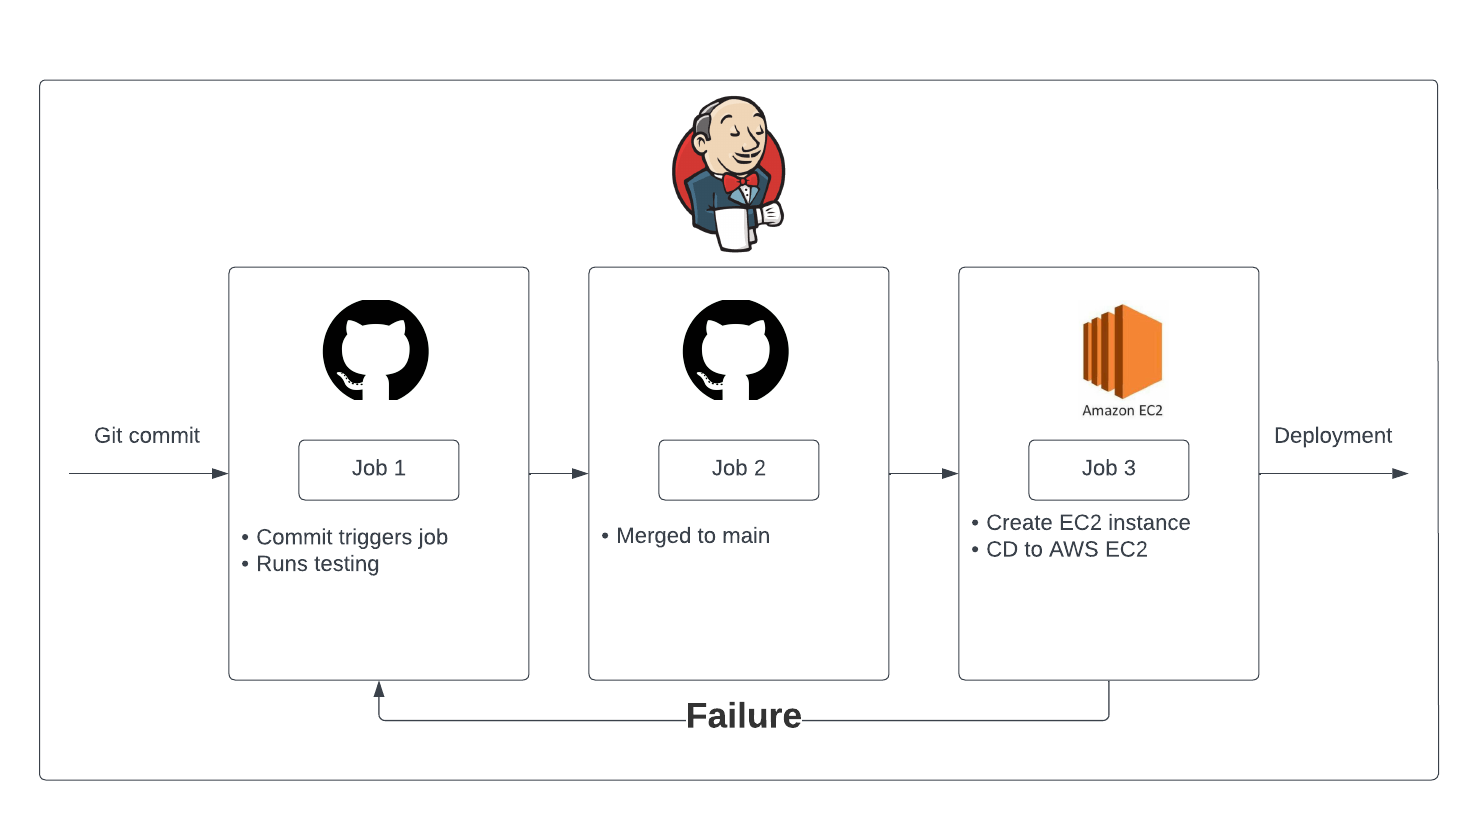
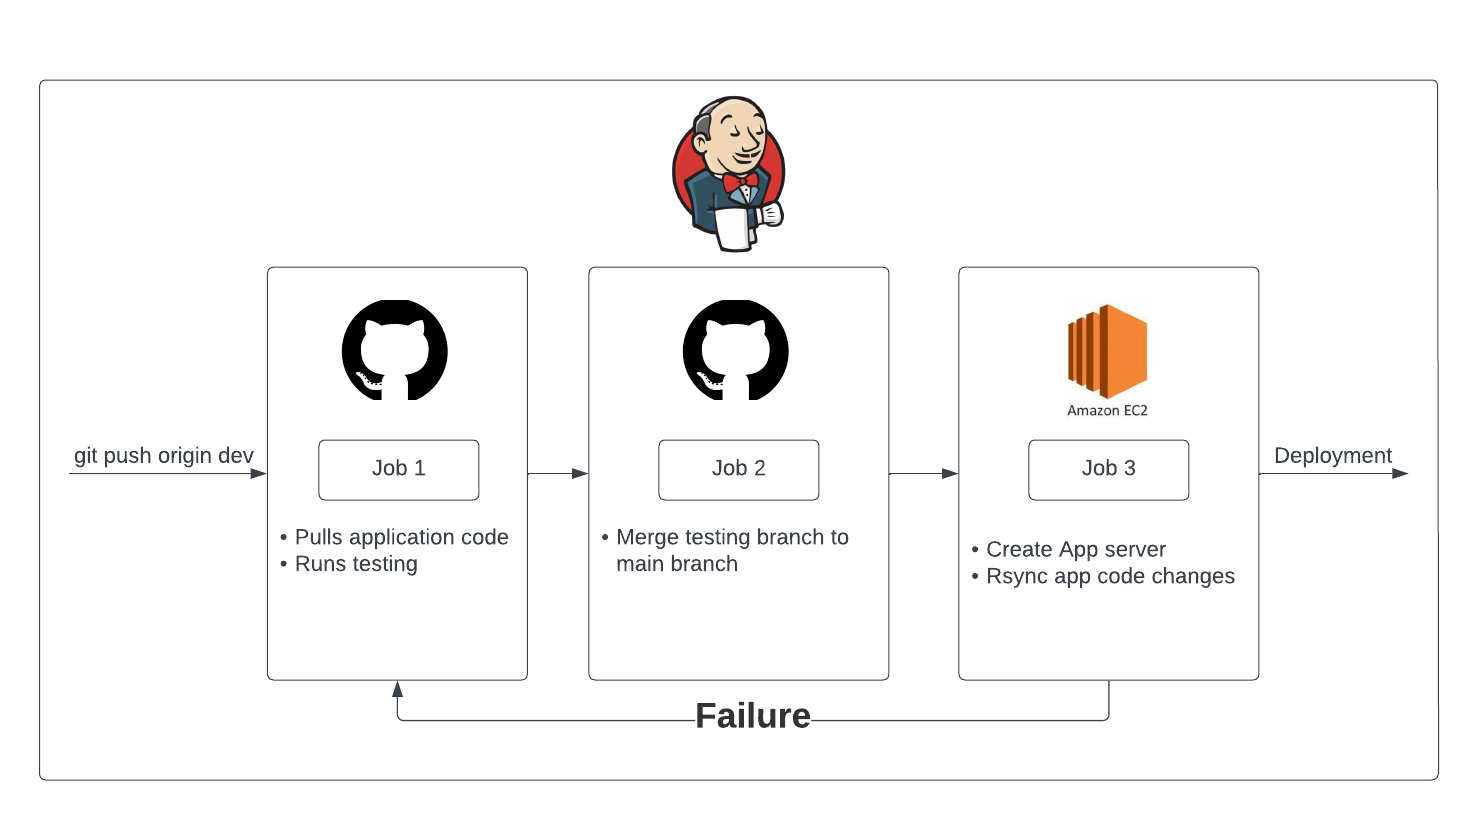
Update docs

diff --git a/cicd/pipeline.md b/cicd/pipeline.md
@@ -1,0 +1,190 @@
+# Automating Application Deployment on AWS with Jenkins CI/CD
+
+Prerequisities:
+1. AWS account + .pem file
+2. Git Hub repo with app code (containing app folder in the main dir)
+3. Set up SSH with localhost and github repo
+4. Set up SSH between Github and Jenkins
+   <!-- Generate key from local host
+   - From Github you need to put pub key into github folder and provide the private key to Jenkins.
+   - Jenkins now has the correct access to clone the code. -->
+5. Testing branch called `dev`
+
+## Architectural Design
+
+<img src="../assets/jenkins.png">
+
+## Jenkins Server 
+
+### Create an Amazon EC2 Instance for Jenkins
+Set up Jenkins on an EC2 instance in AWS, in the `Ireland` region, using a t2.micro instance type.
+
+- AWS Management Console > EC2 > Launch instance > Name e.g. `my-tech257-jenkins`.
+- Choose the Ubuntu Server 18.04 LTS.
+- Instance type: t2.micro > choose an existing Key pair.
+- Configure security groups to allow inbound traffic on ports 22 (SSH) and 8080 (Jenkins).
+     <br><img src="../assets/image-37.png" width=550> 
+- `Launch instance`.
+  <br><img src="../assets/image-43.png" width=650>
+
+### SSH into Jenkins Server
+
+- Navigate into ssh folder in local machine.
+- Connect to the instance using its Public DNS.
+- Update the system:
+  ```
+  sudo apt update
+  sudo apt upgrade -y
+  ```
+- Install Java: `sudo apt install openjdk-17-jre-headless`
+
+  >Note: Jenkins requires Java to run.
+
+- Add the Jenkins repository, import the GPG key and update again:
+    ```bash
+    sudo wget -O /usr/share/keyrings/jenkins-keyring.asc https://pkg.jenkins.io/debian-stable/jenkins.io-2023.key
+    echo deb [signed-by=/usr/share/keyrings/jenkins-keyring.asc] https://pkg.jenkins.io/debian-stable binary/ | sudo tee /etc/apt/sources.list.d/jenkins.list > /dev/null
+    sudo apt update
+    ```
+- Install Jenkins: `sudo apt install jenkins`
+
+- Start the Jenkins service:
+bash: `sudo systemctl start jenkins`
+- Enable Jenkins to start automatically on system boot: `sudo systemctl enable jenkins`
+
+### Access Jenkins
+- Open your web browser and navigate to `http://<your_instance_public_IP>:8080` to access Jenkins.
+- Follow the post-installation setup to unlock Jenkins:
+  - You'll be prompted to enter the initial admin password. You can retrieve this by running the following in the Jenkins instance you SSH'd in to: `sudo cat /var/lib/jenkins/secrets/initialAdminPassword`
+    <br><img src="../assets/image-44.png" width=650>
+
+- Click `Continue` and then `Install suggested plugins`.
+  - If it doesn't work, run the following in the Jenkins instance: `sudo systemctl restart jenkins`. <!-- OR `sudo systemctl status jenkins` and then `sudo systemctl start jenkins`. -->
+  <br><img src="../assets/image-36.png" width=550>
+
+- Create the admin user and provide a Jenkins URL.
+  <br><img src="../assets/image-49.png" width=650>
+- `Save and Finish`.
+- `Start using Jenkins`.
+
+## Jobs on Jenkins Server
+
+- Dashboard > User > New Item > Enter an item name > Freestyle project > OK.
+
+### Continuous Integration (CI)
+
+#### Create Job 1
+
+- Create a new Job called `My-CI`, for example.
+- For `General`, give Description: e.g. _Building CI_ > tick `Discard old builds` > Max # of builds to keep: `3` > tick `GitHub project` > provide **Project url** (HTTPS one).
+- For `Source Code Managment`, select `Git` > provide **Repository URL** (SSH one) > `+Add` Credentials:
+    >  - Kind: `SSH Username with private key`
+    >  - Username: [your-key-name]
+    >  - On local machine, cat the value of private key for the SSH key connected to this repo.
+    >   - Add private key.
+  - Note: Get Git plugin to verify the key by going to `Manage Jenkins` > `Security` > `Git Host Key Verifiation Configuration` > select `Accept first connection` > `Save`.
+  - Branch Specifier: `*/dev`.
+- For `Build Steps` choose `Execute shell`, then enter:
+  ```bash
+  cp app
+  npm install
+  npm test
+  ```
+- Click `Save`.
+- Click `Build Now`.
+
+#### Troubleshooting
+<img src="../assets/image-45.png" width=650>
+
+- To fix the error, manually install Node.js that is compatible with Ubuntu 18.04.
+- . In the Jenkins instance terminal, run the following:
+    ```bash
+    curl -fsSL https://deb.nodesource.com/setup_17.x | sudo -E bash - && sudo apt-get install -y nodejs
+    ```
+
+- On Jenkins server, click `Build now` for Job 1 again.
+- Test the CI setup by making a change to the repository, committing, and pushing it to GitHub.
+
+<img src="../assets/image-46.png" width=650>
+
+### Continuous Integration with Merge (CI-Merge)
+
+#### Create webhook on GitHub
+
+- Payload URL: [your-payload-url]
+- Content type: choose `application/json`
+- Click `Add webhook`.
+
+<img src="../assets/image-38.png" width=550>
+
+#### Create Job 2
+
+- Create a new Job called `My-CI-Merge`, for example.
+- For `General`, give Description: e.g. _merge from dev to main after successful tests_ > tick `Discard old builds` > Max # of builds to keep: `3` > tick `GitHub project` > provide **Project url** (HTTPS one).
+- For `Source Code Managment`, select `Git` > provide **Repository URL** (SSH one) > Branch Specifier: `*/main`.
+- For `Build Triggers`, tick `Build after other projects are built` and provide the Projects to watch e.g. `My-CI`.
+- For `Post-build Actions` choose `Git Publisher`, then the following:
+  <br><img src="../assets/image-22.png" width=500>
+- Click `Save`.
+- Click `Build Now`.
+
+<br><img src="../assets/image-47.png" width=650>
+
+### Continuous Delivery (CD)
+
+#### Manage Jenkins
+
+- Add SSH Agent Plugin on Jenkins server:
+    - Jenkins Dashboard > `Manage Jenkins` > `Plugins` > click `SSH Agent` > click `Install`.
+
+- Add AWS Private Key on Jenkins server:
+    - Jenkins Dashboard > `Manage Jenkins` > `Credentials` > click `(global)` under Domain > `Add Credentials`.
+    - Kind: SSH Username with private key
+    - Username: [your-aws-key-name]
+    - Paste private key
+    - Click `Create`.
+     <br><img src="../assets/image-39.png" width=500>
+
+#### Create Application Server
+
+- Image: Ubuntu version 18.04
+- Instance type: t2 micro
+- Inbound rules for security group: ports 22 (SSH) and 80 (HTTP).
+
+<img src="../assets/image-42.png" width=700>
+
+<img src="../assets/image-32.png" width=400>
+
+#### Create Job 3
+
+- Create a new Job called `My-CD`, for example.
+- For `General`, give Description: e.g. _merge CD with AWS_ > tick `Discard old builds` > Max # of builds to keep: `3` > tick `GitHub project` > provide **Project url** (HTTPS one).
+- For `Source Code Managment`, select `Git` > provide **Repository URL** (SSH one) > Branch Specifier: `*/main`.
+- For `Build Triggers`, tick `Build after other projects are built` and provide the Projects to watch e.g. `My-CI-Merge`.
+- For `Build Environment` tick `SSH agent` and choose AWS private key.
+  <br><img src="../assets/image-48.png" width=350>
+- For `Build Steps` choose `Execute shell`, then enter:
+  ```bash
+  # Replace with new app folder
+  rsync -avz -e "ssh -o StrictHostKeyChecking=no" app ubuntu@[PublicIP-App]:/home/ubuntu/
+
+  # SSH into the VM and execute commands
+  ssh -o "StrictHostKeyChecking=no" ubuntu@[PublicIP-App] <<EOF
+      cd ~/app
+      sudo pkill -f node
+      npm install
+      nohup node app.js > /dev/null 2>&1 &
+  EOF
+  ```
+- Click `Save`.
+- Click `Build Now`.
+
+### Test Pipeline
+
+Click `Build Now` from Job 1.
+
+<img src="../assets/image-40.png" width=500>
+
+### Verify deployment on AWS
+<img src="../assets/image-41.png" width=500>
+

diff --git a/cicd/cicdjenkins.md b/cicd/cicdjenkins.md
@@ -11,7 +11,7 @@
 - Copy the output of the public key, then deploy the key to your desired GitHub repository (not entire Github Account).
   > Note: Make sure to `Allow write access`
 
-### Setup Jenkins
+### Create a Jenkins Job
 <!-- - Install Jenkins on your server. You can download it from the official website and follow installation instructions. -->
    - Access Jenkins through your browser by navigating to `http://<Jenkins-Server-IP>:8080/`. <!--http://35.176.97.54:8080/ -->
 
@@ -103,7 +103,7 @@ Create a webhook on GitHub, set up continuous integration using Jenkins, and ens
 ### Create a new Jenkins job for merge from dev to main branch
 
 - Jenkins dashboard > "New Item" e.g. `My-CI-Merge` > Freestyle project > OK.
-- For `General`, give Description: e.g. _merge from dev to main after successful tests_ > tick `Discard old builds` > Max #: of builds to keep: `3` > tick `GitHub project` > provide **Project url** (HTTPS one).
+- For `General`, give Description: e.g. _merge from dev to main after successful tests_ > tick `Discard old builds` > Max # of builds to keep: `3` > tick `GitHub project` > provide **Project url** (HTTPS one).
 - For `Office 365 Connector`, tick `Restrict where this project can be run` and provide the Label expression (agent node).
 - For `Source Code Managment`, select `Git` > provide **Repository URL** (SSH one) > Branch specifier: `*/main`.
 - For `Build Triggers`, tick `Build after other projects are built` and provide the Projects to watch e.g. `My-CI`.
@@ -141,13 +141,12 @@ Create a webhook on GitHub, set up continuous integration using Jenkins, and ens
 ### Create new job on Jenkins
 
 - Create a new Job called `My-CD`, for example.
-- For `General`, give Description: e.g. _merge CD with AWS_ > tick `Discard old builds` > Max #: of builds to keep: `3` > tick `GitHub project` > provide **Project url** (HTTPS one).
+- For `General`, give Description: e.g. _merge CD with AWS_ > tick `Discard old builds` > Max # of builds to keep: `3` > tick `GitHub project` > provide **Project url** (HTTPS one).
 - For `Source Code Managment`, select `Git` > provide **Repository URL** (SSH one) > Branch specifier: `*/main`.
 - For `Build Triggers`, tick `Build after other projects are built` and provide the Projects to watch e.g. `My-CD-Merge`.
-- For `Build Environment` tick `Provide Node & npm bin/ folder to PATH` and `SSH agent`
+- For `Build Environment` tick `Provide Node & npm bin/ folder to PATH` and `SSH agent`.
   - In the SSH agent add credentials > Kind: SSH Username with private key > Username: pemkey > Add private key (this is the value of the AWS **.pem** file) > Add.
 - For `Build` choose `Execute shell`, then enter:
-  ```bash
   ```bash
   ssh -o "StrictHostKeyChecking=no" ubuntu@3.250.0.106 <<EOF
       sudo apt update -y
@@ -235,7 +234,7 @@ You want to be able to access the application on its port number.
   - Push changes to remote main branch: `git push origin main`
 -->
 
-## Deploy Application Changes on AWS
+## Deployment of Changes to the Application
 
 ### Architecture Diagram
 <img src="../assets/jenkins.png" width=500>
@@ -249,13 +248,13 @@ On AWS, every time you stop and start an instance the Public IP address changes.
 
 ### Update Jenkins job
 
-- Update the Jenkins CD job:
+- Update the Jenkins Job 3 (for CD):
   ```bash
   # Replace with new app folder
-  rsync -avz -e "ssh -o StrictHostKeyChecking=no" app ubuntu@3.253.33.155:/home/ubuntu/
+  rsync -avz -e "ssh -o StrictHostKeyChecking=no" app ubuntu@[PublicIP-App]:/home/ubuntu/
 
   # SSH into the VM and execute commands
-  ssh -o "StrictHostKeyChecking=no" ubuntu@3.253.33.155 <<EOF
+  ssh -o "StrictHostKeyChecking=no" ubuntu@[PublicIP-App] <<EOF
       # Navigate to the app directory
       cd ~/app
 
@@ -307,3 +306,4 @@ Before making any changes ensure that you're on testing branch (dev).
 - Refresh the `<PublicIP>:3000` browser tab.
 - Review the code changes on AWS.
   <br><img src="../assets/image-34.png" width=400>
+

diff --git a/README.md b/README.md
@@ -1,5 +1,6 @@
 # CICD
 
-- [CICD](/cicd/cicd.md)
-- [Jenkins](/cicd/jenkins.md)
-- [CICD with Jenkins and AWS](/cicd/cicdjenkins.md)
+- [CI/CD (Theory)](/cicd/cicd.md)
+- [Jenkins (Theory)](/cicd/jenkins.md)
+- [CI/CD with Jenkins and AWS](/cicd/cicdjenkins.md)
+- [Automating Application Deployment on AWS with Jenkins CI/CD](/cicd/pipeline.md)
